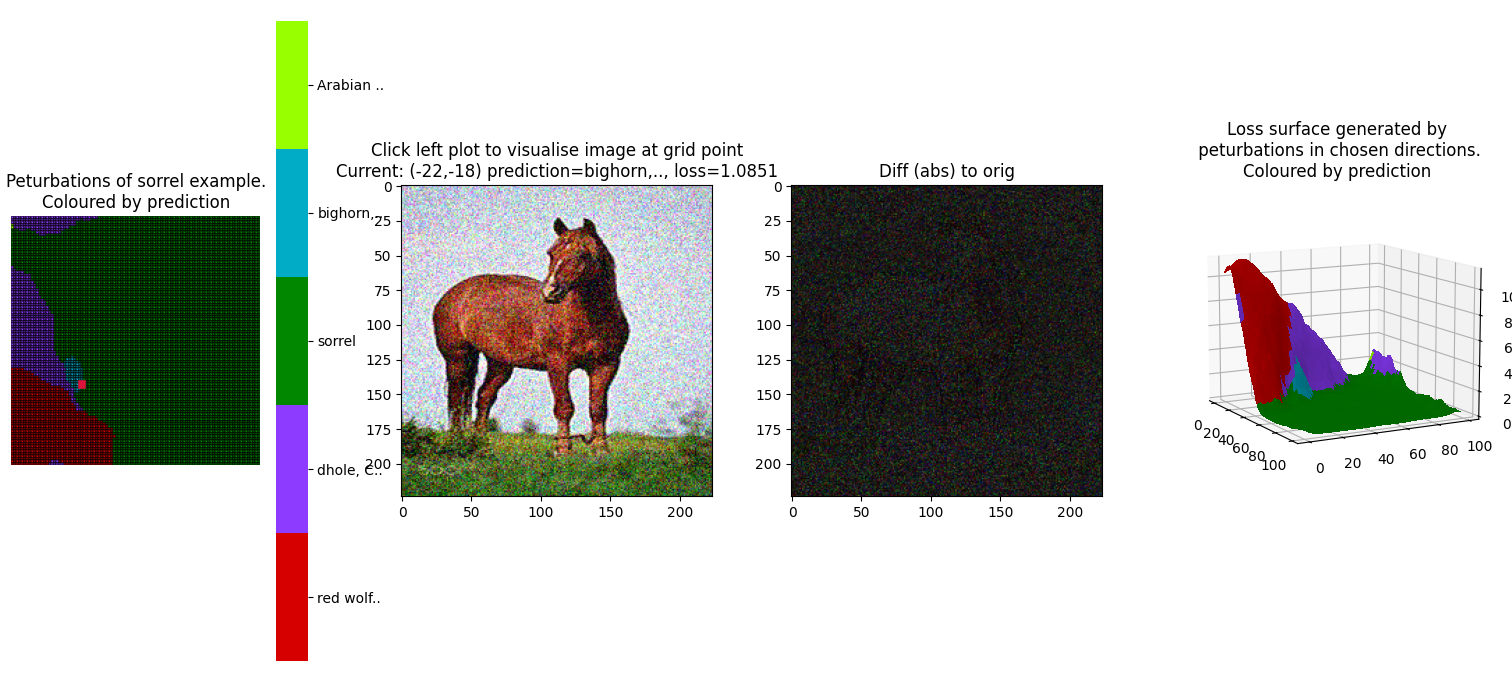
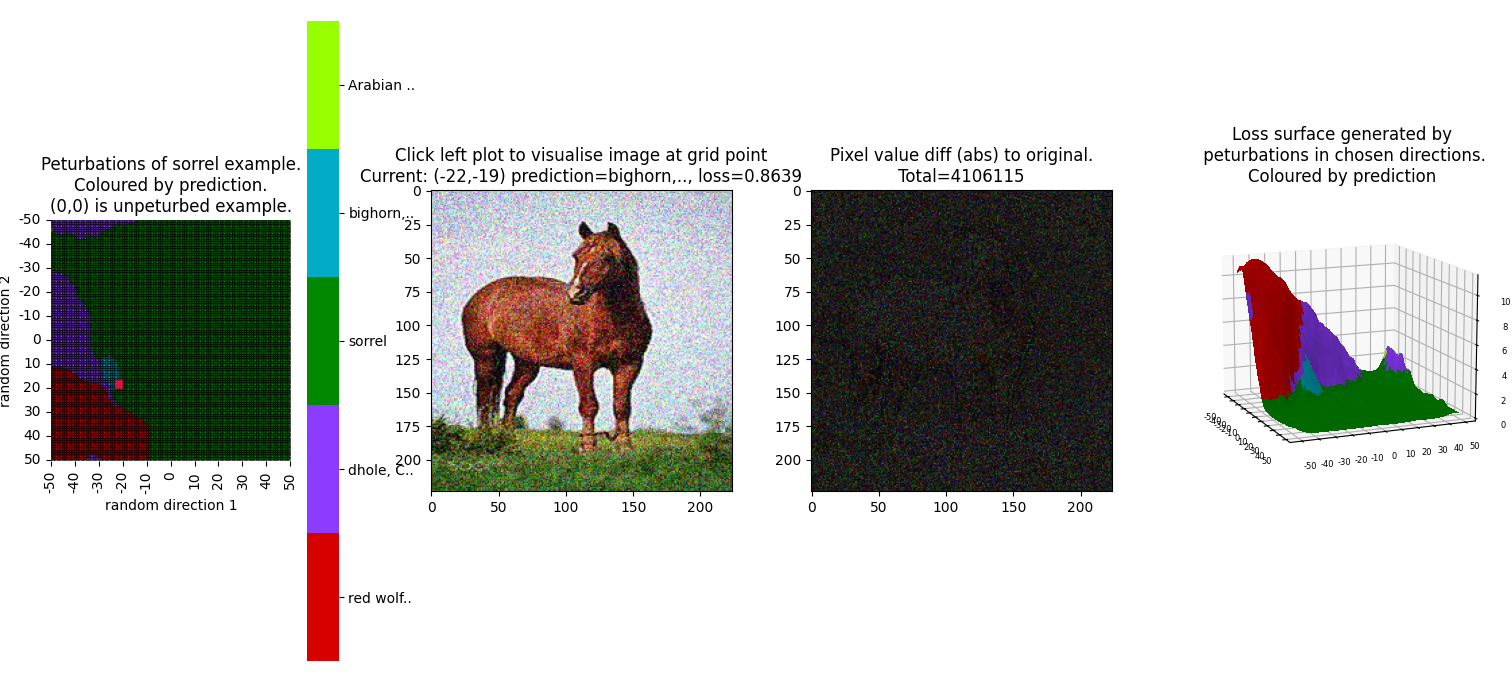
plotting updates

diff --git a/src/imclassplots/plot.py b/src/imclassplots/plot.py
@@ -17,6 +17,7 @@ from jaxtyping import (
     jaxtyped,
 )
 from matplotlib import pyplot as plt
+from matplotlib import ticker
 from matplotlib.figure import Figure
 from matplotlib.patches import Rectangle
 
@@ -26,6 +27,7 @@ def plot_predictions(
     predictions: Int[torch.Tensor, " dim1 dim1"],
     class_labels: list[str],
     true_image_label: int,
+    direction: str,
     display_ims: bool = False,
     im_generation_fn: Optional[Callable[[float, float], PIL.Image.Image]] = None,
     scale_factor: Optional[float] = None,
@@ -55,6 +57,7 @@ def plot_predictions(
 
     cmap = sns.color_palette(cc.glasbey, n)
     start = -grid_size // 2
+    labels = range(start, start + grid_size + 1)
 
     if display_ims:
         fig, (ax0, ax1, ax2, ax3) = plt.subplots(1, 4, figsize=(20, 7))
@@ -65,13 +68,21 @@ def plot_predictions(
     hm = sns.heatmap(
         predictions.flip(0).numpy(),
         cmap=cmap,
-        xticklabels=False,
-        yticklabels=False,
+        xticklabels=labels,
+        yticklabels=labels,
         ax=ax0,
         square=True,
         linecolor="#00000077",
         linewidths=1 / grid_size,
     )
+    hm.set(xlabel=f"{direction} direction 1", ylabel=f"{direction} direction 2")
+
+    # 11 ticks including 0 in middle, so step is grid_size / 10
+    tick_locator = ticker.FixedLocator(range(grid_size + 1), nbins=11)
+    hm.axes.xaxis.set_major_locator(tick_locator)
+    hm.axes.xaxis.set_ticklabels(labels)
+    hm.axes.yaxis.set_major_locator(tick_locator)
+    hm.axes.yaxis.set_ticklabels(labels)
 
     colorbar = ax0.collections[0].colorbar
     r = colorbar.vmax - colorbar.vmin
@@ -80,7 +91,7 @@ def plot_predictions(
     colorbar.set_ticklabels(list(used_class_map.values()))
     ax0.set_title(
         f"Peturbations of {class_labels[true_image_label]} example.\n"
-        "Coloured by prediction"
+        "Coloured by prediction.\n(0,0) is unpeturbed example."
     )
 
     # sns heatmap doesn't provide response x,y by default
@@ -115,7 +126,12 @@ def plot_predictions(
         ax1.set_title(get_ax1_title(x=0, y=0))
 
         ax2.imshow(np.zeros_like(orig_im_arr))
-        ax2.set_title("Diff (abs) to orig")
+
+        def get_ax2_title(im, orig_im):
+            total_diff = np.abs(im.astype(np.int32) - orig_im_arr).sum()
+            return f"Pixel value diff (abs) to original.\nTotal={total_diff}"
+
+        ax2.set_title(get_ax2_title(im=orig_im_arr, orig_im=orig_im_arr))
 
         patches = []
 
@@ -147,6 +163,7 @@ def plot_predictions(
                 ax2.imshow(np.abs(im.astype(np.int32) - orig_im_arr).astype(np.uint8))
 
                 ax1.set_title(get_ax1_title(x_loc, y_loc))
+                ax2.set_title(get_ax2_title(im=im, orig_im=orig_im_arr))
                 # remove previously added patch
                 patches.pop().remove()
                 patches.append(
@@ -188,5 +205,11 @@ def plot_predictions(
             "Loss surface generated by\n peturbations in chosen directions.\n"
             "Coloured by prediction"
         )
+
+    ax3.xaxis.set_major_locator(tick_locator)
+    ax3.xaxis.set_ticklabels(labels)
+    ax3.yaxis.set_major_locator(tick_locator)
+    ax3.yaxis.set_ticklabels(labels)
+    ax3.tick_params(axis="both", which="major", labelsize=6)
 
     return fig

diff --git a/pixel_plot.py b/pixel_plot.py
@@ -176,6 +176,7 @@ def main(
         predictions=predictions,
         class_labels=dataset_labels,
         true_image_label=true_label,
+        direction=direction,
         display_ims=display_ims,
         im_generation_fn=im_gen_fn,
         scale_factor=scale_factor,
